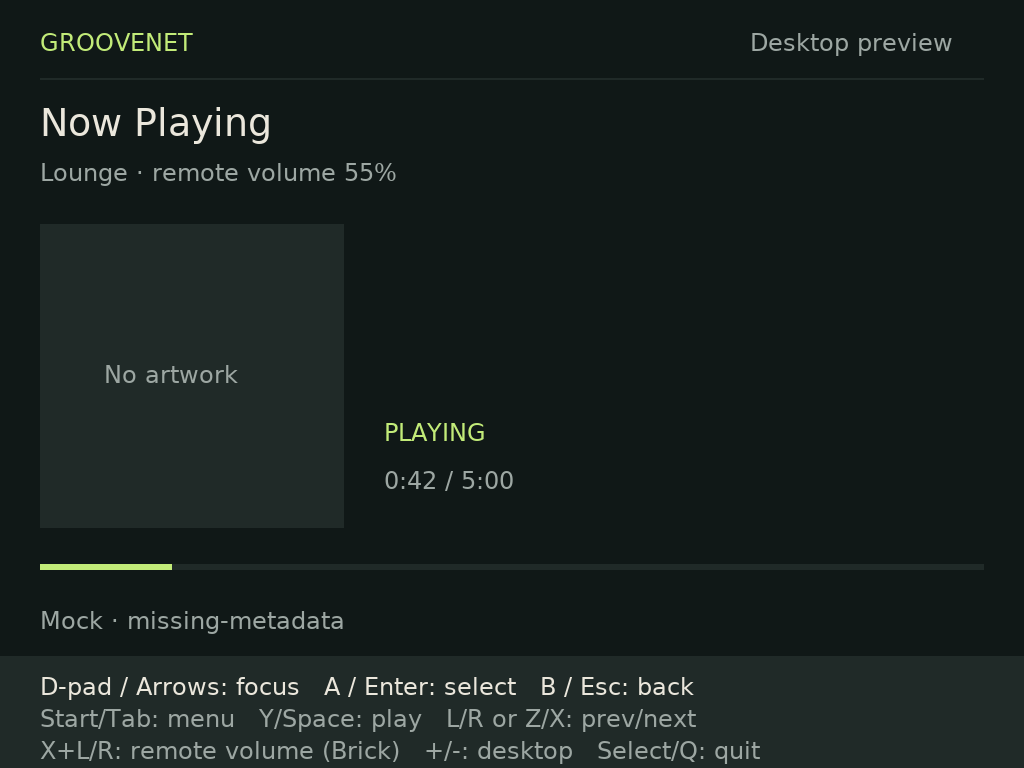
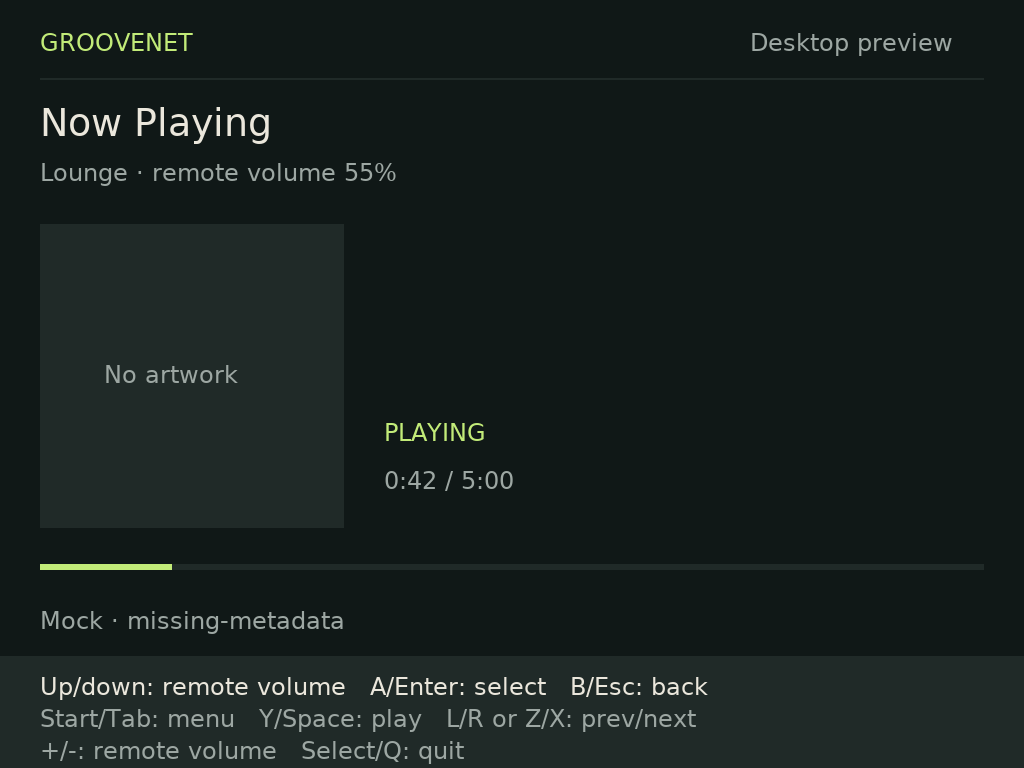
feat(brick): use Now Playing up and down for remote volume

Changed region(s): [[0.0312, 0.875, 0.6875, 0.9062], [0.0312, 0.9688, 0.5625, 1.0], [0.5938, 0.9688, 0.75, 1.0]]

diff --git a/apps/groovenet-brick/tests/tests.cpp b/apps/groovenet-brick/tests/tests.cpp
@@ -91,9 +91,13 @@ void stateTests() {
   check(app.rows().empty() && app.focus() == 0);
   app.handle(Action::Back);
   check(app.screen() == Screen::NowPlaying && app.running());
+  app.handle(Action::Up);
+  check(app.snapshot().volume == 60);
+  app.handle(Action::Down);
+  check(app.snapshot().volume == 55);
   app.handle(Action::Menu);
   app.handle(Action::Up);
-  check(app.focus() == 4);
+  check(app.focus() == 4 && app.snapshot().volume == 55);
   app.handle(Action::Select);
   check(app.screen() == Screen::Outputs && app.rows().size() == 3);
   app.handle(Action::Select);
@@ -113,6 +117,7 @@ void stateTests() {
   app.handle(Action::Select);
   check(app.screen() == Screen::Players);
   app.handle(Action::Down);
+  check(app.snapshot().volume == 55);
   app.handle(Action::Select);
   check(app.snapshot().player == "Studio" && app.snapshot().playing);
   check(app.notice().find("playback unchanged") != std::string::npos);
@@ -130,6 +135,8 @@ void stateTests() {
   check(!app.notice().empty());
   app.handle(Action::Suspend);
   app.handle(Action::Next);
+  app.handle(Action::Up);
+  check(app.snapshot().volume == 55);
   app.advance(2000);
   check(app.suspended() && app.snapshot().position == 0);
   app.handle(Action::Wake);
@@ -145,6 +152,12 @@ void stateTests() {
   check(app.scenario() == "playing");
   app.handle(Action::Quit);
   check(!app.running());
+  for (const auto &name : {"loading", "disconnected", "unavailable"}) {
+    App blocked("mock", name);
+    blocked.handle(Action::Up);
+    blocked.handle(Action::Down);
+    check(blocked.snapshot().volume == 55);
+  }
   App live("live", "playing");
   live.handle(Action::Scenario);
   live.handle(Action::PlayPause);
@@ -235,25 +248,8 @@ void inputTests() {
   event.type = SDL_CONTROLLERBUTTONDOWN;
   event.cbutton.button = SDL_CONTROLLER_BUTTON_X;
   check(device.input(event) == Action::None);
-  for (const auto &[button, action] :
-       std::vector<std::pair<Uint8, Action>>{
-           {SDL_CONTROLLER_BUTTON_LEFTSHOULDER, Action::RemoteDown},
-           {SDL_CONTROLLER_BUTTON_RIGHTSHOULDER, Action::RemoteUp},
-           {SDL_CONTROLLER_BUTTON_A, Action::Select}}) {
-    event.cbutton.button = button;
-    check(device.input(event) == action);
-  }
-  event.type = SDL_CONTROLLERBUTTONUP;
-  event.cbutton.button = SDL_CONTROLLER_BUTTON_X;
-  check(device.input(event) == Action::None);
-  event.type = SDL_CONTROLLERBUTTONDOWN;
   event.cbutton.button = SDL_CONTROLLER_BUTTON_LEFTSHOULDER;
   check(device.input(event) == Action::Previous);
-  event.cbutton.button = SDL_CONTROLLER_BUTTON_X;
-  device.input(event);
-  event.type = SDL_APP_WILLENTERBACKGROUND;
-  check(device.input(event) == Action::Suspend);
-  event.type = SDL_CONTROLLERBUTTONDOWN;
   event.cbutton.button = SDL_CONTROLLER_BUTTON_RIGHTSHOULDER;
   check(device.input(event) == Action::Next);
 }

diff --git a/apps/groovenet-brick/src/desktop.cpp b/apps/groovenet-brick/src/desktop.cpp
@@ -13,30 +13,11 @@
 
 namespace brick {
 Action Desktop::input(const SDL_Event &event) {
-  if (knulli_) {
-    if (event.type == SDL_KEYDOWN && event.key.keysym.sym == SDLK_POWER &&
-        !event.key.repeat) {
-      resetInput();
-      return Action::Wake; // Firmware owns Power; only invalidate remote state.
-    }
-    if ((event.type == SDL_CONTROLLERBUTTONDOWN ||
-         event.type == SDL_CONTROLLERBUTTONUP) &&
-        event.cbutton.button == SDL_CONTROLLER_BUTTON_X) {
-      volumeModifier_ = event.type == SDL_CONTROLLERBUTTONDOWN;
-      return Action::None;
-    }
-    if (event.type == SDL_CONTROLLERBUTTONDOWN && volumeModifier_) {
-      if (event.cbutton.button == SDL_CONTROLLER_BUTTON_LEFTSHOULDER)
-        return Action::RemoteDown;
-      if (event.cbutton.button == SDL_CONTROLLER_BUTTON_RIGHTSHOULDER)
-        return Action::RemoteUp;
-    }
-  }
+  if (knulli_ && event.type == SDL_KEYDOWN &&
+      event.key.keysym.sym == SDLK_POWER && !event.key.repeat)
+    return Action::Wake; // Firmware owns Power; only invalidate remote state.
   if (event.type == SDL_QUIT)
     return Action::Quit;
-  if (event.type == SDL_APP_WILLENTERBACKGROUND ||
-      event.type == SDL_APP_DIDENTERFOREGROUND || event.type == SDL_WINDOWEVENT)
-    resetInput();
   if (event.type == SDL_APP_WILLENTERBACKGROUND)
     return Action::Suspend;
   if (event.type == SDL_APP_DIDENTERFOREGROUND)
@@ -260,7 +241,6 @@ int runDesktop(const Options &options) {
     auto wall = std::chrono::system_clock::now();
     if (options.knulli && wall - lastWall > std::chrono::seconds(2)) {
       // Wall time includes Linux suspend. Cancel unsent writes before handling input.
-      platform.resetInput();
       app.handle(Action::Suspend);
       app.handle(Action::Wake);
       app.advance(0);

diff --git a/apps/groovenet-brick/src/renderer.cpp b/apps/groovenet-brick/src/renderer.cpp
@@ -127,11 +127,13 @@ void Renderer::draw(const App &app, const Platform &platform) {
   }
   text(app.notice().empty() ? state.status : app.notice(), 40, 606, 944, muted);
   box(0, 656, width, 112, panel);
-  text("D-pad / Arrows: focus   A / Enter: select   B / Esc: back", 40, 672,
+  text(app.screen() == Screen::NowPlaying
+           ? "Up/down: remote volume   A/Enter: select   B/Esc: back"
+           : "Up/down: focus   A/Enter: select   B/Esc: back", 40, 672,
        944, ink);
   text("Start/Tab: menu   Y/Space: play   L/R or Z/X: prev/next", 40, 704, 944,
        muted);
-  text("X+L/R: remote volume (Brick)   +/-: desktop   Select/Q: quit", 40, 736,
+  text("+/-: remote volume   Select/Q: quit", 40, 736,
        944, muted);
   if (app.suspended()) {
     box(40, 224, 944, 350, panel);

diff --git a/apps/groovenet-brick/src/platform.hpp b/apps/groovenet-brick/src/platform.hpp
@@ -22,13 +22,12 @@ public:
 };
 class Desktop final : public Platform {
 public:
-  void resetInput() { volumeModifier_ = false; }
   explicit Desktop(bool knulli = false) : knulli_(knulli) {}
   Action input(const SDL_Event &event) override;
   std::string configDirectory() const override;
   std::optional<int> batteryPercent() const override { return std::nullopt; }
 private:
-  bool knulli_, volumeModifier_ = false;
+  bool knulli_;
 };
 struct Options {
   std::string mode = "mock", scenario = "playing", font, screenshot;

diff --git a/apps/groovenet-brick/src/app.cpp b/apps/groovenet-brick/src/app.cpp
@@ -206,6 +206,12 @@ void App::handle(Action action) {
         notice_ = "Navigation preview · server controls follow in #1099–1101";
     }
   }
+  if (screen_ == Screen::NowPlaying) {
+    if (action == Action::Up)
+      action = Action::RemoteUp;
+    if (action == Action::Down)
+      action = Action::RemoteDown;
+  }
   if (action == Action::Left)
     action = Action::Previous;
   if (action == Action::Right)

diff --git a/apps/groovenet-brick/knulli/README.md b/apps/groovenet-brick/knulli/README.md
@@ -8,7 +8,8 @@ routing remain in #1098–1101. Physical acceptance and ABI results are recorded
 
 ## Build and contents
 
-From the repository root run `just brick-package` with Docker running. It builds
+From the repository root run `just brick-package` with Docker running and
+`linux/arm64` execution available (native ARM64 or configured Docker emulation). It builds
 Linux ARM64 using the exact Debian image digest from the measured #1095 probe,
 a frozen Debian snapshot dated 2026-11-07, GCC 12/C++17 and Release CMake. No npm
 build is involved. Output: `apps/groovenet-brick/build-knulli/` containing
@@ -50,7 +51,8 @@ proper Knulli SDK and full release qualification remain #1102.
    logical canvas and the firmware display driver/orientation. Use Start to open
    Browse, then Players; deliberately select the desired player before issuing
    any controls. The client initially observes the first returned player (Aswitch
-   on the test server); selection only observes the chosen player. Verify its name and current state.
+   on the test server); selection only observes the chosen player. Press B twice
+   to return from Players through Browse to Now Playing; verify its name and state.
 5. Update while the app is closed: replace the script and application directory
    from a new verified archive. Configuration survives outside Ports. Remove by
    deleting those two Ports entries. Optionally delete the config directory to
@@ -78,17 +80,16 @@ Ports’ inherited `SDL_GAMECONTROLLERCONFIG` before SDL initializes, since the
 firmware exports a conflicting hat mapping with higher priority than SDL’s normal
 mapping API. Physical verification status is in the evidence record.
 
-| Physical control   | Action                                  | Firmware raw SDL assignment |
-| ------------------ | --------------------------------------- | --------------------------- |
-| D-pad              | Focus up/down, previous/next left/right | axes 0/1                    |
-| A / B              | Select / back                           | buttons 5 / 4               |
-| Start              | Browse menu                             | button 13                   |
-| Y                  | Play/pause                              | button 7                    |
-| L / R              | Previous / next                         | buttons 8 / 9               |
-| Hold X + L / R     | **Server player** volume −5 / +5        | button 6 modifier + 8 / 9   |
-| Select             | Quit to Ports                           | button 12                   |
-| Device volume keys | Firmware local device volume only       | deliberately unmapped       |
-| Power              | Firmware sleep/wake only                | never a playback write      |
+| Physical control   | Action                                                                    | Firmware raw SDL assignment |
+| ------------------ | ------------------------------------------------------------------------- | --------------------------- |
+| D-pad              | Now Playing: up/down remote volume; lists: up/down focus; left/right skip | axes 0/1                    |
+| A / B              | Select / back                                                             | buttons 5 / 4               |
+| Start              | Browse menu                                                               | button 13                   |
+| Y                  | Play/pause                                                                | button 7                    |
+| L / R              | Previous / next                                                           | buttons 8 / 9               |
+| Select             | Quit to Ports                                                             | button 12                   |
+| Device volume keys | Firmware local device volume only                                         | deliberately unmapped       |
+| Power              | Firmware sleep/wake only                                                  | never a playback write      |
 
 There is no L3/R3 dependency. Server volume and local device volume are distinct.
 Navigation, unavailable/disconnected states and playback share the desktop
@@ -117,8 +118,9 @@ publish keys or raw authenticated responses.
 2. On that player, change track from another controller. Confirm fresh matching
    metadata/state on the Brick. Observe loading, unavailable and disconnected
    states when the test service is unavailable, and recovery after it returns.
-3. Deliberately press Y twice, L and R, then hold X and press L/R. Confirm each
-   action once on the intended server player. Release X and check L/R skips again.
+3. Deliberately press Y twice, L and R, then Up/Down on Now Playing for server
+   volume ±5. Confirm each action once on the intended server player. Open a list
+   and confirm Up/Down moves focus without changing volume.
    Check local volume changes only device volume. Check B returns, focus wraps,
    and no controls require L3/R3. Report any mismatched physical button by name.
 4. Leave server playback running, short Power, wait 30 seconds, change tracks

diff --git a/apps/groovenet-brick/README.md b/apps/groovenet-brick/README.md
@@ -11,7 +11,7 @@ of npm and desktop builds. See [install/build/control instructions](knulli/READM
 and [application device evidence](evidence/knulli-preview-1107.md) for hashes,
 firmware/ABI limitations, physical observations and remaining acceptance checks.
 The device profile uses the same renderer and REST/SSE adapter. It supplies a
-licensed DejaVu font and maps remote volume to X+L/R on the real Brick buttons.
+licensed DejaVu font and maps remote volume to D-pad Up/Down on Now Playing.
 Desktop mode retains its existing mappings below.
 
 ## Host setup and commands
@@ -47,17 +47,17 @@ letterboxes the same logical canvas, including on Retina displays. The #1095
 probe used a 640×480 test canvas, not the panel's native dimensions. The experimental device preview is tracked in #1107; full supported-release
 qualification remains in #1102.
 
-| Named action                 | Keyboard                | SDL game controller               |
-| ---------------------------- | ----------------------- | --------------------------------- |
-| Focus up/down                | Arrow up/down           | D-pad up/down                     |
-| Select                       | Enter                   | A                                 |
-| Back                         | Escape                  | B                                 |
-| Browse menu                  | Tab                     | Start                             |
-| Play/pause                   | Space                   | Y                                 |
-| Previous/next                | Arrow left/right or Z/X | D-pad left/right or shoulders L/R |
-| Remote player volume down/up | Minus/plus (or equals)  | Left/right stick click (L3/R3)    |
-| Cycle mock scenario          | F1 (Fn-F1 on some Macs) | Use CLI scenario at launch        |
-| Quit preview                 | Q or window close       | Back/Select button                |
+| Named action                                       | Keyboard                | SDL game controller               |
+| -------------------------------------------------- | ----------------------- | --------------------------------- |
+| Focus up/down (lists); remote volume (Now Playing) | Arrow up/down           | D-pad up/down                     |
+| Select                                             | Enter                   | A                                 |
+| Back                                               | Escape                  | B                                 |
+| Browse menu                                        | Tab                     | Start                             |
+| Play/pause                                         | Space                   | Y                                 |
+| Previous/next                                      | Arrow left/right or Z/X | D-pad left/right or shoulders L/R |
+| Remote player volume down/up                       | Minus/plus (or equals)  | Left/right stick click (L3/R3)    |
+| Cycle mock scenario                                | F1 (Fn-F1 on some Macs) | Use CLI scenario at launch        |
+| Quit preview                                       | Q or window close       | Back/Select button                |
 
 These are SDL semantic controller positions, not guesses about Knulli raw button
 IDs. SDL-recognized controllers work at startup and can be connected/disconnected
@@ -65,7 +65,7 @@ while running. Unrecognized controllers need an SDL mapping supplied by the host
 (for example `SDL_GAMECONTROLLERCONFIG`); analog sticks are not required for
 navigation. Keyboard repeat is ignored to avoid repeated playback commands.
 
-**Remote volume** affects only the selected mock server player's 0–100 level in
+**Remote volume**, including Up/Down on Now Playing, affects only the selected mock server player's 0–100 level in
 steps of five. OS multimedia volume keys and Power are never mapped to server
 volume, pause or stop. **Local device volume** belongs to the firmware/OS adapter
 and has no application command here. Nothing essential requires mouse input.

diff --git a/apps/groovenet-brick/evidence/knulli-preview-1107.md b/apps/groovenet-brick/evidence/knulli-preview-1107.md
@@ -78,22 +78,33 @@ Final artifact hashes will be recorded after final verification/build.
   pause/resume rendering regression cover it without relying on host SDL_ttf's
   empty-string behavior. Album artwork remains explicitly deferred to #1098.
 
+- Owner reported the X+L/R chord skipped tracks instead of changing volume and
+  requested Up/Down volume. Removed the modifier/chord: Up/Down now changes server
+  volume on Now Playing, and still navigates menus/lists. L/R remains skip. Tests
+  check both contexts and the persistent hints reflect the current screen.
+
 ## Physical smoke results
 
 Owner confirmed navigation works after the mapping-priority correction. Pause/play
 then exposed the empty-metadata renderer exit described above. The fixed build
 passed an **actual on-device** two-frame Mali rendering test with the bundled font,
-`--scenario missing-metadata --actions play,play`, exit 0 and a 1024×768 BMP capture.
+`--scenario missing-metadata --actions up,down,play,play`, exit 0 and a 1024×768 BMP capture.
 The firmware does not include SDL's dummy video driver; that attempted run failed
 visibly before using the real display driver. This is a mock-data renderer check
 on the real runtime, not a claim of successful live transport.
 
 ![On-device missing-metadata regression capture](../screenshots/knulli-missing-metadata.png)
 
-Pending owner observations after the renderer fix: live Y pause/resume, L/R,
-X+L/R, local volume, explicit Lounge identity confirmation, external
-track changes, actual server transport/volume, short Power/sleep/wake freshness,
-and clean quit/continued playback. No desktop test is substituted for these.
+After installing the Up/Down volume build, the owner replied “yeah seems working”
+to a retest request covering Lounge selection, Now Playing volume, Y pause/resume,
+short Power/wake, Select/quit and continued server playback. This is an informal
+operator smoke result, not measured timings or independent playback telemetry.
+No further crash was reported. L/R was physically mapped and the owner previously
+observed skips during the rejected volume chord.
+
+Pending explicit observations: external-controller track-change freshness,
+upright/full-screen display confirmation and local device-volume isolation.
+No desktop test is substituted for these.
 Follow the exact [physical smoke steps](../knulli/README.md#physical-smoke-test-owner-observations-required).
 
 The #1095 probe previously demonstrated short real suspend and display restoration;
@@ -106,9 +117,10 @@ as part of the preview. No full reliability or stable release claim is made.
 
 - `just brick-test`: three CTest suites passed (native behavior/resource failures,
   real loopback TLS/SSE fixture, isolated Ports launcher).
-- `just brick-coverage`: 99.38% native lines, 96.34% branches; changed desktop/input
+- `just brick-coverage`: 99.38% native lines, 96.28% branches; changed desktop/input
   implementation, renderer and platform header 100% lines/branches. All new executable native
-  lines covered, including mapping failure, modifier reset and wake-gap recovery.
+  lines covered, including mapping failure, contextual volume and wake-gap recovery.
+  Diff-to-LCOV inspection found all 48 changed executable native lines covered.
 - `BRICK_ARCHIVE=... python3 apps/groovenet-brick/tests/test_package.py`: launcher
   behavior plus actual archive allowlist, AArch64 ELF, executable modes,
   placeholder-only config, font license and binary/font hashes passed.
